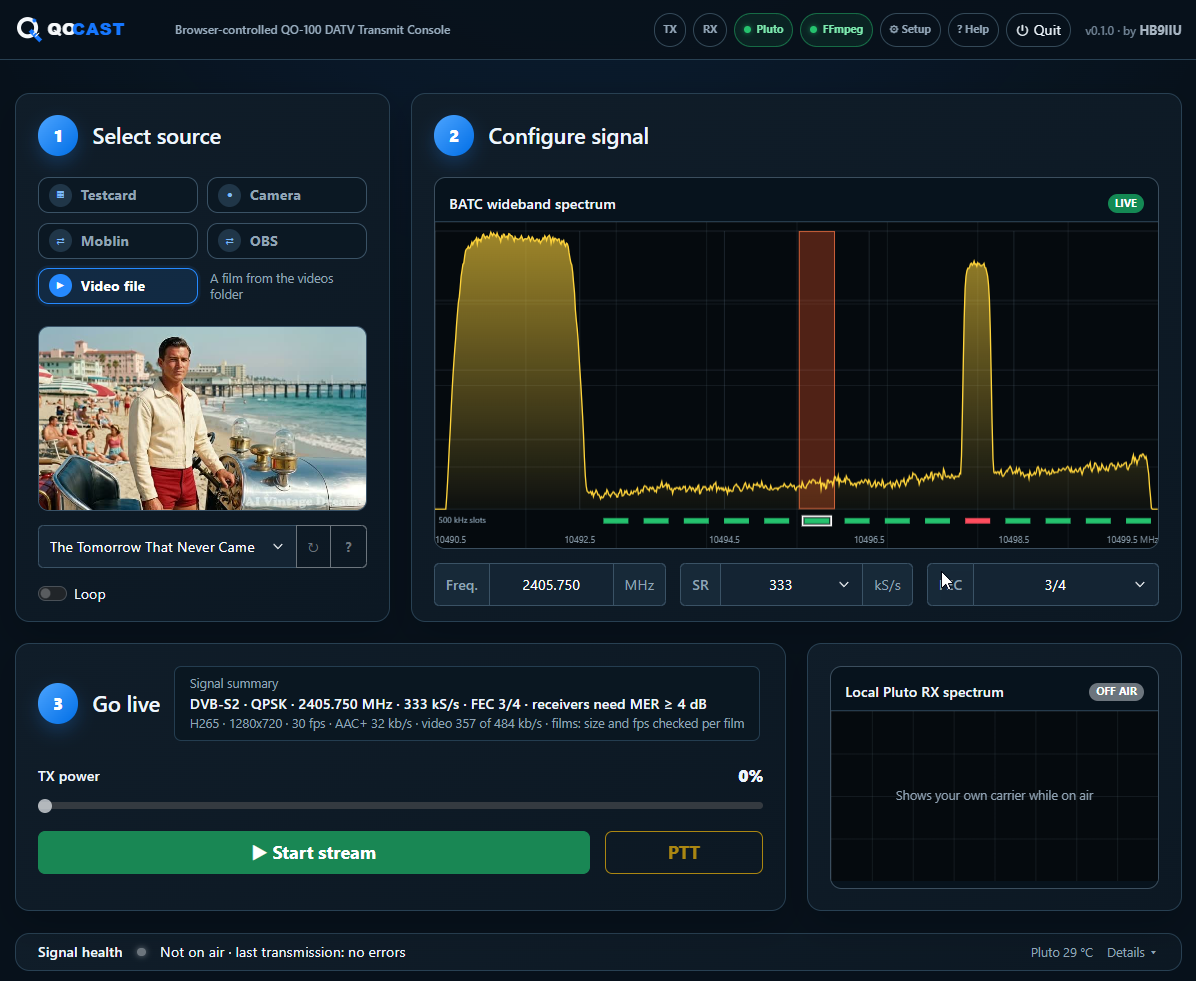
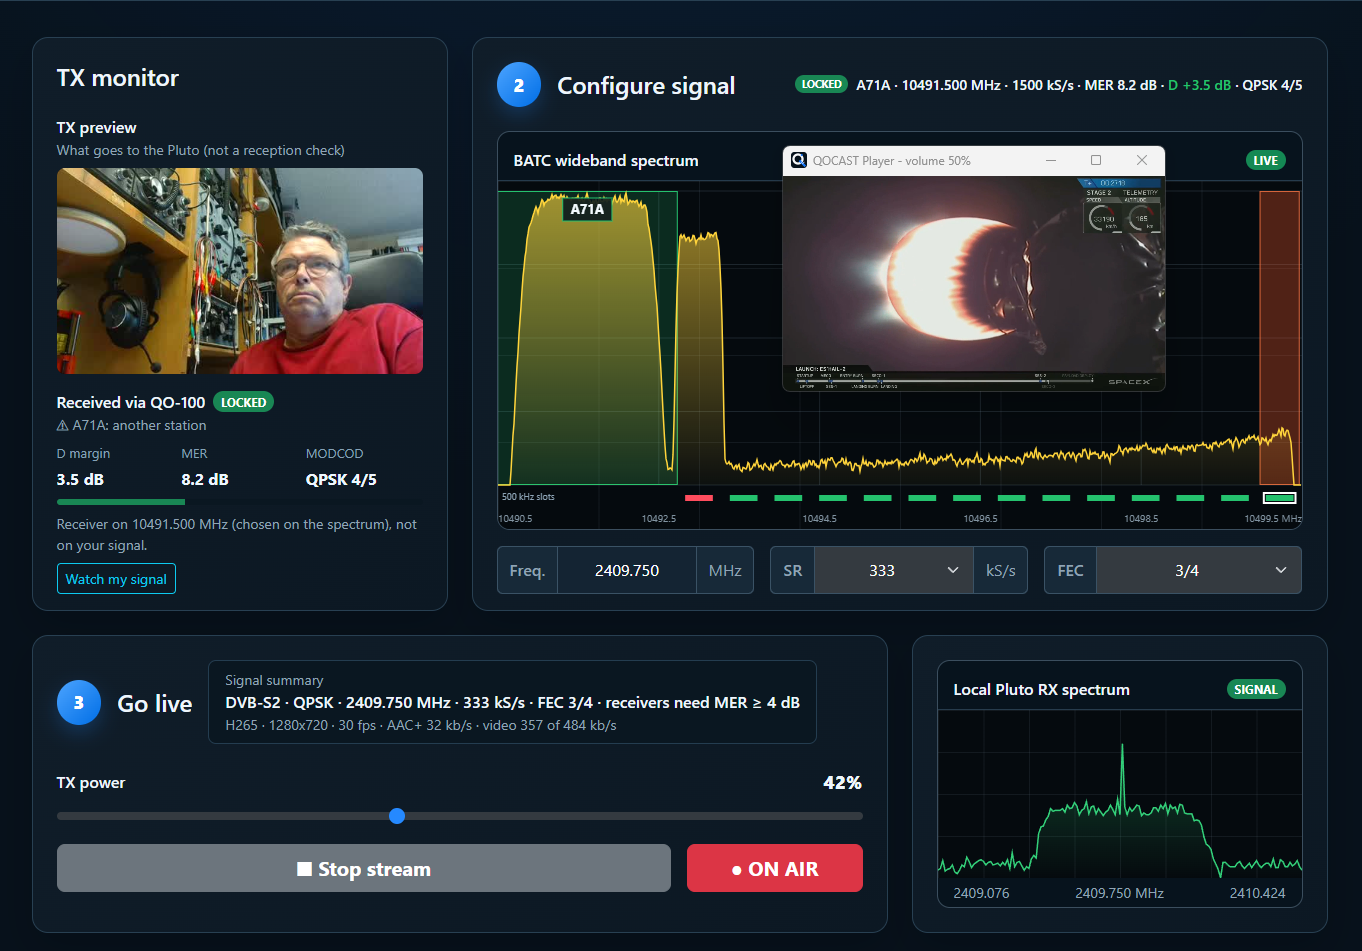
README for 0.2.0

diff --git a/README.md b/README.md
@@ -4,9 +4,44 @@
 
 QOCAST sends DVB-S2 video to the QO-100 satellite with an ADALM-Pluto
 (PlutoDVB2 firmware by F5OEO), and shows what comes back with a MiniTiouner or
-PicoTuner - all from one page in your browser.
+PicoTuner. You control everything from one page in your browser; the received
+picture plays in its own small window, the **QOCAST Player**.
 
 ![QOCAST main page](images/screenshot.png)
+
+## What's new in 0.2: no more video in the browser
+
+In 0.1, received video was shown inside the web page: OpenTuner received the
+signal, QOCAST converted it to a format browsers can play, and the page played
+it. It worked, but it was never good enough for DATV. The picture lagged
+seconds behind, stalled, and every change of station or resolution meant
+starting over. Browser video players are made for internet streaming, with
+large buffers. A live picture from the satellite needs the opposite.
+
+So 0.2 drops that idea completely:
+
+- **New: the QOCAST Player.** A small window that plays the tuner's stream
+  directly with VLC: picture and sound, no conversion and no browser in
+  between. The picture appears about a second after tuning. QOCAST starts it,
+  it finds your MiniTiouner or PicoTuner by itself, and it closes at Quit.
+  Right-click the picture for mute, volume and "always on top".
+- **OpenTuner is no longer needed.** It is not in the package any more, and
+  QOCAST closes an OpenTuner that is still running, so it can't keep the tuner
+  busy. The Player uses OpenTuner's proven tuner code (thanks, Tom ZR6TG).
+- **Receive from the main page.** The separate RX page is gone. Click a signal
+  on the BATC spectrum to receive it: a green band marks it, with the station's
+  callsign once locked. A line next to "Configure signal" shows lock, MER,
+  D margin and MODCOD. At start, the receiver is on the QO-100 beacon.
+- **TX monitor (was "On-air monitor").** While you stream, it shows a small,
+  live **TX preview** of the encoded picture you actually send to the Pluto,
+  already before PTT. Below it, your signal received back through QO-100, with
+  MER and D margin.
+- **Smaller download:** about 130 MB instead of more than 300 MB.
+
+Also new: a built-in BATC wideband chat, a camera preview that recovers by
+itself when the webcam gives no picture, a microphone compressor for the
+camera, and clearer messages in the log. The full list is on the
+**[Releases](../../releases)** page.
 
 ## What makes QOCAST different
 
@@ -35,17 +70,16 @@ Also built in:
 - **Signal health at a glance:** one line tells you if your stream is good, too
   full or has errors, with a live bitrate bar (video, audio, overhead, spare) and
   TR 101 290 checks behind it.
-- **See yourself come back:** while on air, QOCAST tunes its own OpenTuner to
-  your downlink and shows your picture received back through QO-100, with MER
-  and D margin.
+- **See yourself come back:** while you stream, the QOCAST Player is tuned to
+  your downlink, so you see your own picture received back through QO-100.
 - **Start, then PTT:** the stream starts muted; the Pluto only transmits when
   you press PTT.
 - **Moblin and OBS stay connected:** connect them once; start and stop the
   transmission as often as you like without touching the phone or OBS.
 - **Use it from any device:** open `http://qocast.local:8080` on a tablet,
   phone or another PC on your home network.
-- **Nothing to install or configure:** unzip and start. OpenTuner starts with
-  QOCAST, finds your MiniTiouner or PicoTuner by itself and closes at Quit.
+- **Nothing to install or configure:** unzip and start. The QOCAST Player
+  starts with QOCAST, finds your tuner by itself and closes at Quit.
 
 ## Download
 
@@ -59,28 +93,30 @@ No installation: unzip it to a writable folder and run `CLICK-HERE-TO-START.cmd`
   video files
 - **Settings that fit:** every film, camera, Moblin or OBS source is checked
   once per profile, so the stream fits the QO-100 bitrate without overflows
-- **BATC wideband spectrum:** click a free (green) slot to choose your frequency
+- **BATC wideband spectrum:** click a free (green) slot to choose your
+  frequency, click a signal to receive it
+- **QOCAST Player:** the received picture and sound in their own window
 - **Start, then PTT:** the stream runs muted until you press PTT
+- **TX monitor:** live preview of what you send, and your signal received back
 - **Local Pluto RX spectrum:** see your own carrier
-- **On-air monitor:** your own picture received back through QO-100
-- **RX page:** watch QO-100 in the browser, click a signal to tune
 - **Overlays** on camera and Moblin: callsign, locator, UTC time, scrolling text
 - **Signal health:** status in words, live bitrate bar, TR 101 290 checks
-- **Help page:** step-by-step setup of Moblin and OBS
+- **BATC wideband chat** built in
+- **Help page:** step-by-step setup of Moblin and OBS, receiving a station
 
 ## Requirements
 
 - Windows 10 or 11, 64-bit
 - An **NVIDIA graphics card** (the video is encoded with NVENC, H.265)
 - **ADALM-Pluto** with the **PlutoDVB2 firmware** (F5OEO), connected by USB
-- Optional, for receiving: a **MiniTiouner** or **PicoTuner** with its FTDI
+- Optional, for receiving: a **MiniTiouner** or **PicoTuner** with its USB
   driver installed in Windows, and an LNB for the QO-100 downlink
 
 ## Starting and quitting
 
 1. Run `CLICK-HERE-TO-START.cmd` (or `QOCast.exe`). The page opens in your browser at
-   http://localhost:8080. OpenTuner starts minimized and connects your tuner by
-   itself.
+   http://localhost:8080, and the QOCAST Player window opens on the QO-100
+   beacon.
 2. Set your callsign and locator on the **Setup** page.
 3. To end: the **Quit** button at the top of the page.
 
@@ -91,18 +127,20 @@ network can open it.
 ## Included third-party software
 
 QOCAST ships with FFmpeg (LGPL 2.1, with the Fraunhofer FDK AAC encoder),
-TSDuck, the Varela Round font and the HB9IIU QOCAST OpenTuner (based on
-OpenTuner by Tom ZR6TG, GPLv3). Their licences are in the `licenses` folder.
+TSDuck, the Varela Round font, and the QOCAST Player. The Player contains
+tuner code from OpenTuner by Tom ZR6TG and is therefore GPLv3; it plays video
+with LibVLC by VideoLAN (LGPL 2.1). The licences are in the `licenses` folder.
 
-Source code of the HB9IIU QOCAST OpenTuner:
+Source code of the QOCAST Player:
 **[github.com/HB9IIU/QOCAST-OpenTuner](https://github.com/HB9IIU/QOCAST-OpenTuner)**
 
 ## Credits
 
 - **Evariste F5OEO** for the PlutoDVB2 firmware
-- **Tom ZR6TG** for OpenTuner
+- **Tom ZR6TG** for OpenTuner, whose tuner code the QOCAST Player uses
+- **VideoLAN** for VLC
 - **F1EJP** for DATV-Easy, the reference for the encoder settings
-- **BATC** for the QO-100 wideband spectrum monitor
+- **BATC** for the QO-100 wideband spectrum monitor and chat
 - **AMSAT-DL** and everyone who keeps QO-100 running
 
 73 from HB9IIU!
